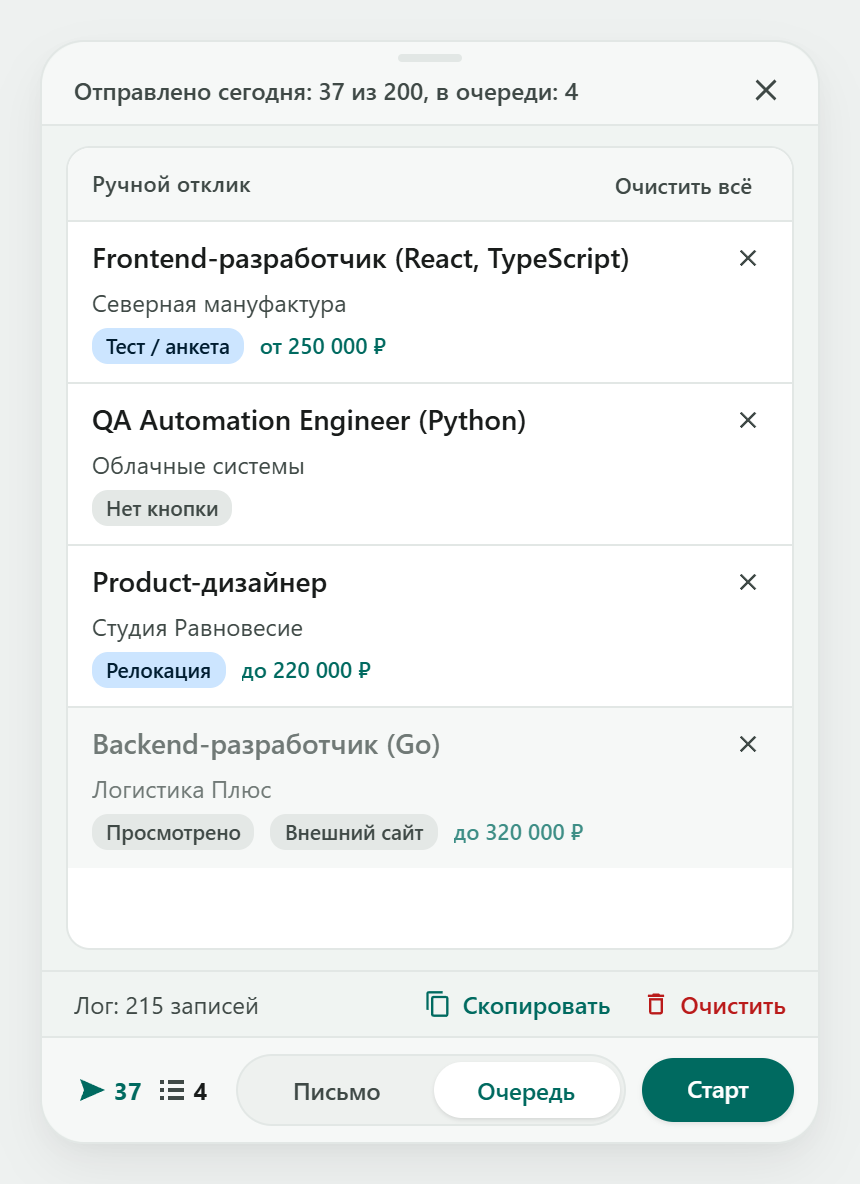
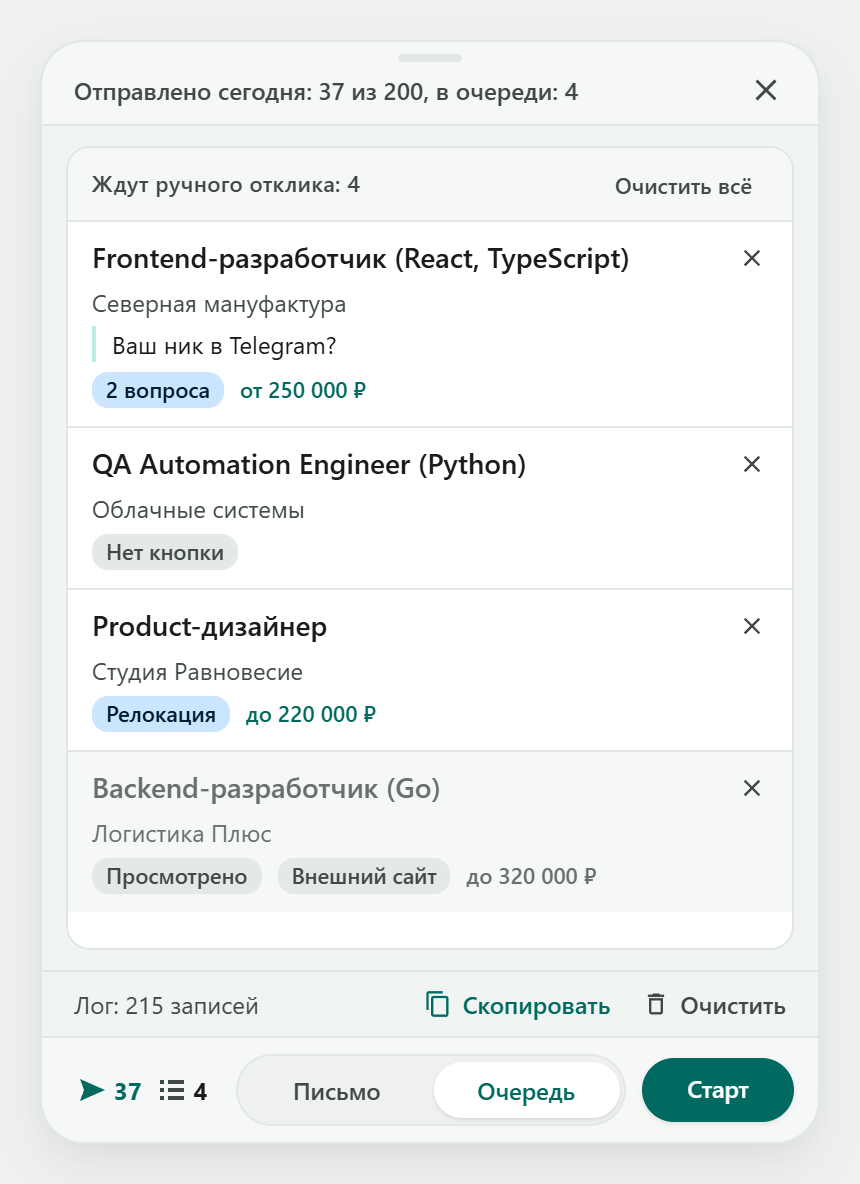
docs(hud): README and screenshots for the new widget, release 0.2.17
- README: the form questions on the queue card, "Вернуть" after a removal, the error card above the tabs, the pill place kept from the nearer window edges
- Screenshots of the letter, queue, error and running panels and of the running pill show the new design

diff --git a/hh-apply-assistant.user.js b/hh-apply-assistant.user.js
@@ -1,7 +1,7 @@
 // ==UserScript==
 // @name         HH Apply Assistant
 // @namespace    https://github.com/tgeruzov/hh-apply-assistant
-// @version      0.2.16
+// @version      0.2.17
 // @author       Timur Geruzov
 // @description  Автоматические отклики на вакансии hh.ru из поиска. Вакансии с тестами и анкетами откладывает в очередь для ручного отклика
 // @license      GPL-3.0-only

diff --git a/README.md b/README.md
@@ -4,7 +4,7 @@
 
 **Userscript для автоматизации откликов на [hh.ru](https://hh.ru)**
 
-![Version](https://img.shields.io/badge/version-0.2.16-blue?style=flat-square)
+![Version](https://img.shields.io/badge/version-0.2.17-blue?style=flat-square)
 [![License: GPL-3.0-only](https://img.shields.io/badge/License-GPL--3.0--only-blue?style=flat-square)](./LICENSE)
 
 </div>
@@ -25,10 +25,10 @@
 <p align="center">
   <img src="docs/images/pill-idle.png" width="226" alt="Виджет в простое: 37 откликов за сегодня, 4 в очереди и кнопка Старт">
   &nbsp;&nbsp;
-  <img src="docs/images/pill-running.png" width="283" alt="Виджет во время работы: шаг Пауза с обратным отсчётом и кнопка Стоп">
+  <img src="docs/images/pill-running.png" width="304" alt="Виджет во время работы: шаг Пауза с обратным отсчётом и кнопка Стоп">
 </p>
 
-Виджет можно перетащить мышкой в удобное место, у краёв экрана он прилипает. Поднять его можно только до высоты, где над ним ещё помещается раскрытая панель.
+Виджет можно перетащить мышкой в удобное место, у краёв экрана он прилипает. Поднять его можно только до высоты, где над ним ещё помещается раскрытая панель. Место запоминается от ближайших краёв окна: если окно ненадолго стало меньше, например открыли DevTools, виджет потом вернётся туда, где был.
 
 ---
 
@@ -149,12 +149,12 @@ Chrome 137 и более ранние версии (версия видна на
 * На странице вакансии нет кнопки отклика, или форма отклика не отправилась
 * На одной вакансии три раза подряд случился сбой (по любой причине): скрипт кладёт её в очередь и 24 часа к ней не возвращается
 
-Откройте вкладку `Очередь` в окне виджета. Клик по строке с вакансией откроет её в новой вкладке - ответьте на вопросы и отправьте руками. Открытые вакансии помечаются как `Просмотрено` и уходят вниз списка. Пока вакансия лежит в очереди, скрипт не открывает её повторно, даже в новой вкладке.
+Откройте вкладку `Очередь` в окне виджета. Если скрипт видел анкету работодателя, в карточке написано, сколько в ней вопросов, и показан первый вопрос: так короткую анкету вроде "Ваш ник в Telegram?" видно сразу, не открывая вакансию. Клик по строке с вакансией откроет её в новой вкладке - ответьте на вопросы и отправьте руками. Открытые вакансии помечаются как `Просмотрено` и уходят вниз списка. Пока вакансия лежит в очереди, скрипт не открывает её повторно, даже в новой вкладке.
 
-Когда вы откликнулись, вакансия сама пропадает из очереди: скрипт видит подтверждение на её странице, в том числе если вы ответили на вопросы в окне без перезагрузки страницы. Такой отклик прибавляется к счётчику за сегодня, потому что hh.ru тоже учитывает его в суточном лимите. Крестик в строке убирает вакансию без счёта, например если вы решили не откликаться, а `Очистить всё` просит подтверждения. Вакансии с анкетой, откликом на сайте работодателя, промо-страницей или без кнопки отклика скрипт помнит 30 дней, так что после очистки очереди он не открывает их снова: результат был бы тем же. Вакансию, отложенную из-за сбоя, например отправка не подтвердилась, следующий прогон попробует ещё раз. Очередь и счётчик общие для всех вкладок hh.ru и обновляются в них без перезагрузки.
+Когда вы откликнулись, вакансия сама пропадает из очереди: скрипт видит подтверждение на её странице, в том числе если вы ответили на вопросы в окне без перезагрузки страницы. Такой отклик прибавляется к счётчику за сегодня, потому что hh.ru тоже учитывает его в суточном лимите. Крестик в строке убирает вакансию без счёта, например если вы решили не откликаться, а `Очистить всё` просит подтверждения. После того и другого внизу списка несколько секунд видна кнопка `Вернуть`: если нажали случайно, вакансии вернутся на место. Вакансии с анкетой, откликом на сайте работодателя, промо-страницей или без кнопки отклика скрипт помнит 30 дней, так что после очистки очереди он не открывает их снова: результат был бы тем же. Вакансию, отложенную из-за сбоя, например отправка не подтвердилась, следующий прогон попробует ещё раз. Очередь и счётчик общие для всех вкладок hh.ru и обновляются в них без перезагрузки.
 
 <p align="center">
-  <img src="docs/images/panel-queue.png" width="430" alt="Вкладка Очередь: вакансии для ручного отклика с причиной и зарплатой">
+  <img src="docs/images/panel-queue.png" width="430" alt="Вкладка Очередь: вакансии для ручного отклика с причиной, зарплатой и первым вопросом анкеты">
 </p>
 
 ### Что скрипт пропускает
@@ -183,7 +183,7 @@ Chrome 137 и более ранние версии (версия видна на
 ## Если что-то пошло не так
 
 * **Страница зависла:** на странице вакансии скрипт ждёт следующего шага не больше 15 секунд, потом возвращается в поиск и считает это неудачной попыткой (после трёх вакансия уходит в очередь). На остальных страницах ждёт 60 секунд, потом перезагружает страницу (до двух раз) и пробует продолжить. Если не помогло, скрипт остановится с ошибкой. Если страница не догрузилась, скрипт на ней не запустится - обновите её руками.
-* **Ошибка в виджете:** если скрипт остановился из-за сбоя, счётчик в виджете краснеет, рядом появляется причина одним словом (`Капча`, `Доступ`, `Зависла`, `Вёрстка`, `Вкладка`, `Хранилище` или `Сбой`), а кнопка меняется на `Сброс`. Строка статуса наверху панели называет причину подробнее, например `Остановлено: капча`. Откройте виджет - там карточка: что случилось и что делать. `Продолжить` сбрасывает состояние и сразу запускает скрипт заново, `Сброс` только сбрасывает. Обычные повторы попыток и вакансии, ушедшие в очередь, карточкой не показываются, они есть в подробном логе.
+* **Ошибка в виджете:** если скрипт остановился из-за сбоя, счётчик в виджете краснеет, рядом появляется причина одним словом (`Капча`, `Доступ`, `Зависла`, `Вёрстка`, `Вкладка`, `Хранилище` или `Сбой`), а кнопка меняется на `Сброс`. Строка статуса наверху панели называет причину подробнее, например `Остановлено: капча`. Откройте виджет - над вкладками карточка: что случилось и что делать. Письмо и очередь при этом остаются доступны. `Продолжить` сбрасывает состояние и сразу запускает скрипт заново, `Сброс` только сбрасывает. Обычные повторы попыток и вакансии, ушедшие в очередь, карточкой не показываются, они есть в подробном логе.
 * **Отчёт об ошибке:** кнопка `Скопировать` кладёт в буфер код ошибки, сообщение, URL, User-Agent и технические детали (id вакансии, фрагмент HTML страницы). Текст собирается автоматически, поэтому прочитайте его перед публикацией: в URL могут быть параметры вашего поиска. Вставьте отчёт в [Issue на GitHub](https://github.com/tgeruzov/hh-apply-assistant/issues).
 * **Подробный лог:** если ошибка плавающая или описания из виджета недостаточно - откройте виджет и нажмите `Скопировать` в строке лога внизу панели. В буфер попадёт лог: последние 1000 записей, они сохраняются между сессиями. Если браузер не дал доступ к буферу обмена, кнопка так и напишет, а лог выведется в консоль (<kbd>F12</kbd>, вкладка `Console`). Кнопка `Очистить` рядом стирает лог после подтверждения, например чтобы в отчёт попал только новый прогон; первой записью после очистки идёт отметка `log_cleared`. Если прогон шёл в свёрнутом браузере, в логе видно, сколько вкладка пробыла в фоне (`tab_hidden`, `tab_visible`), замораживал ли её браузер (`page_frozen`, `page_resumed`) и были ли перерывы дольше 30 секунд, когда скрипт не работал вовсе, например пока компьютер спал (`timer_gap`). Из консоли лог можно получить и напрямую: `copy(hhaDumpLog())`, очистить: `hhaClearLog()`.
 
